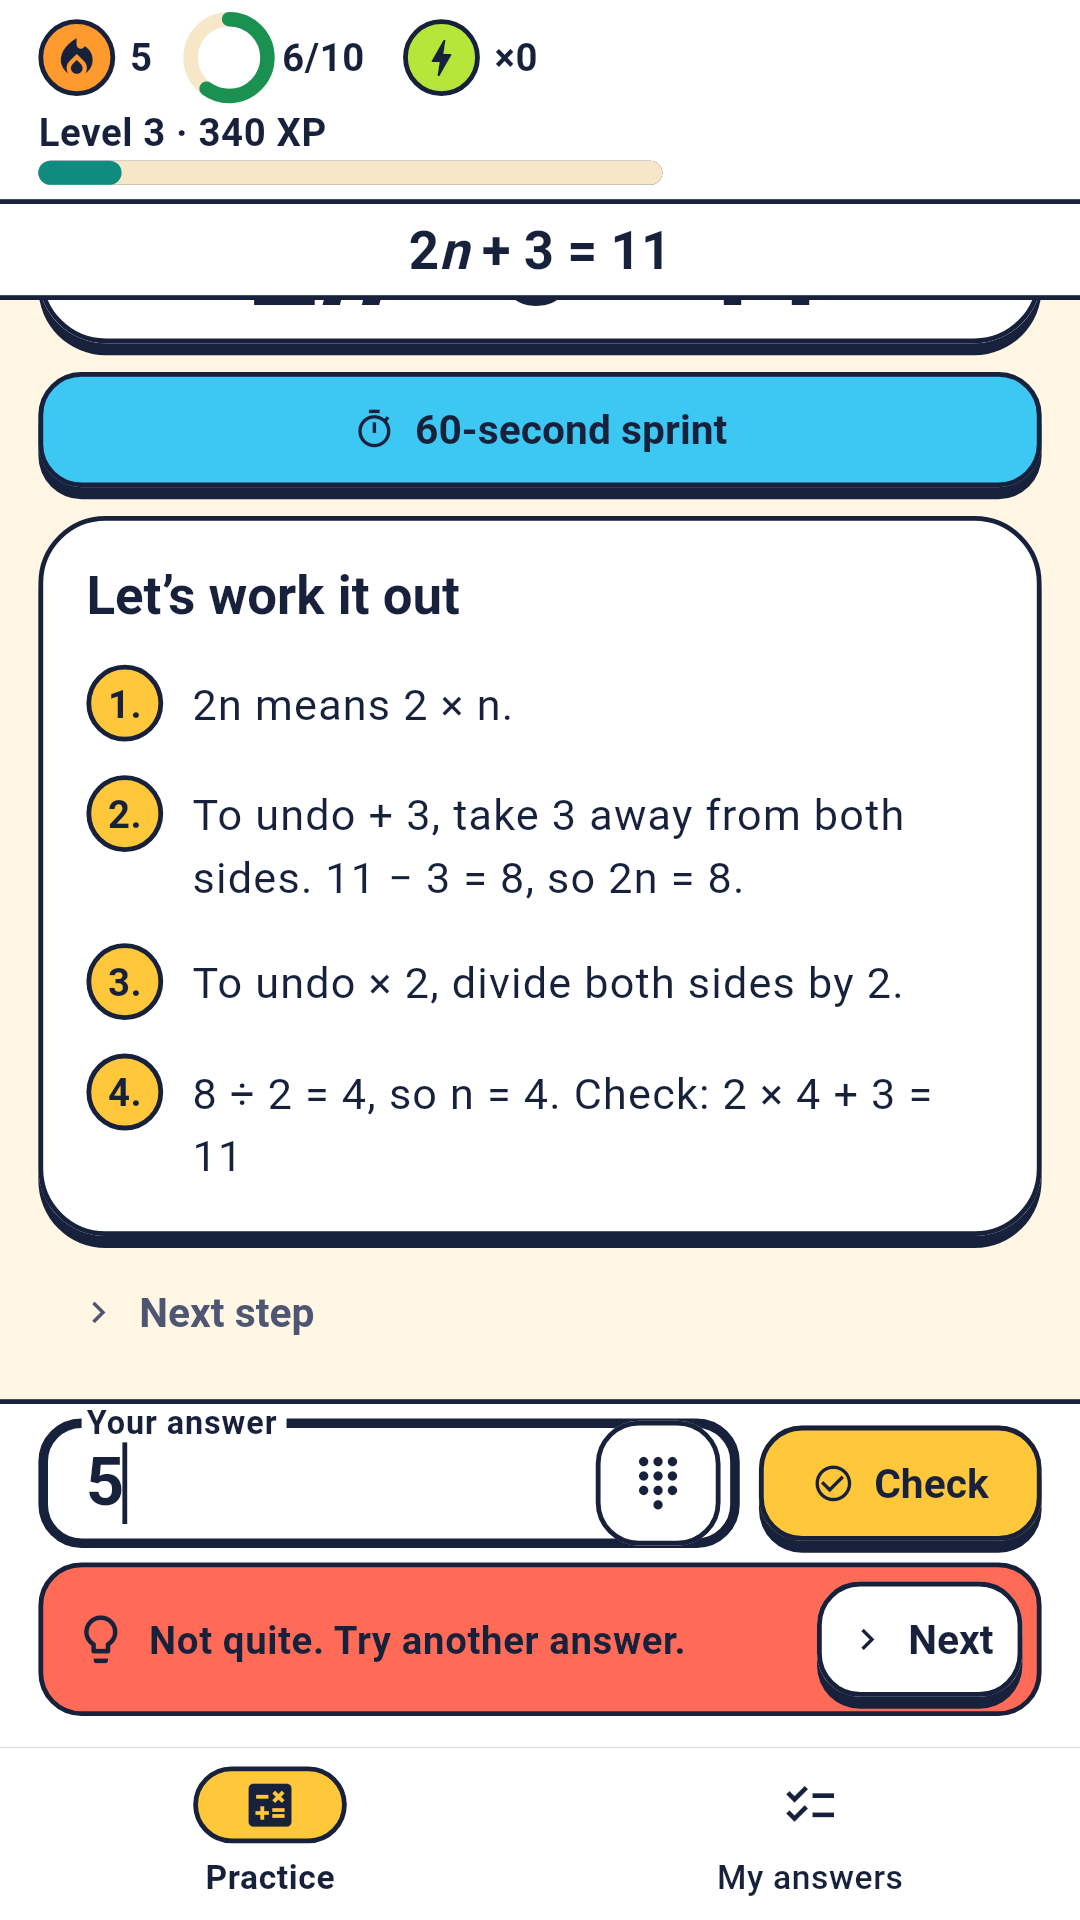
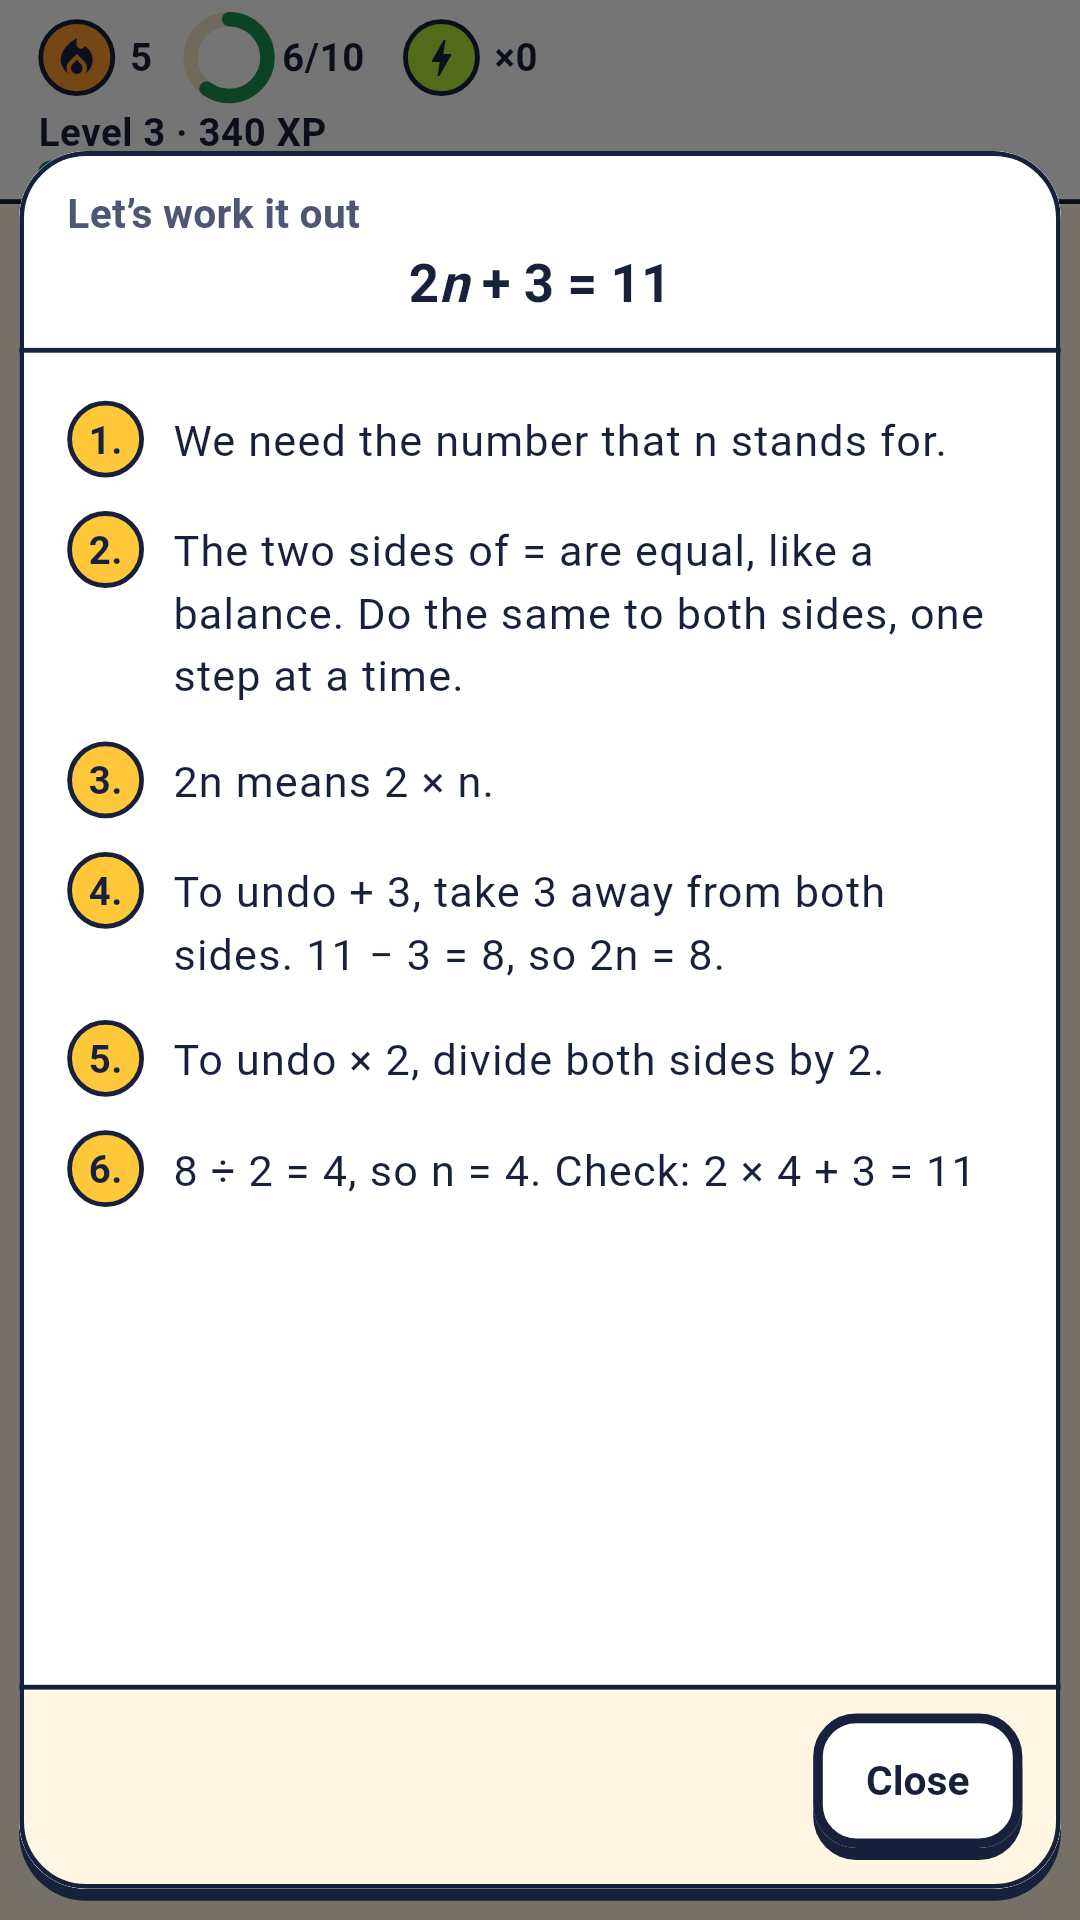
docs: regenerate the store screenshots for the new practice page
Play scenes show the start screen, the hint modal, My answers with the
Hints card, a theorem figure in dark theme and the summary at End.
phone-7-compact becomes phone-7-summary. Data safety answers as entered
by the owner; the menu button replaces the gear in the docs.

diff --git a/app/tool/screenshots_test.dart b/app/tool/screenshots_test.dart
@@ -39,6 +39,8 @@ void main() {
   String? language;
   final boundary = GlobalKey();
   final now = DateTime(2026, 11, 14, 9);
+  // Time played since the launch, read by the model's clock.
+  var played = Duration.zero;
   const game = GameState(
     xp: 340,
     combo: 4,
@@ -109,6 +111,7 @@ void main() {
     // Practice starts as after a tap on Start; false stays before it.
     bool start = true,
   }) async {
+    played = Duration.zero;
     tester.view.physicalSize = size;
     tester.view.devicePixelRatio = 1;
     tester.view.viewInsets = FakeViewPadding(bottom: keyboard);
@@ -131,7 +134,7 @@ void main() {
             for (final kind in OperationType.values) kind.name,
         ],
       ),
-      clock: () => now,
+      clock: () => now.add(played),
       ticker: ticks == null ? null : () => ticks.stream,
       // Nothing is sent from a screenshot.
       reportClient: _ShotReports(reportOutcome),
@@ -294,6 +297,20 @@ void main() {
           await tester.ensureVisible(find.byKey(endPracticeButtonKey));
           await tester.tap(find.byKey(endPracticeButtonKey));
           await shoot(tester, '$tag-2d-after-end-summary');
+
+          // A longer round at End: a hint, a skip and a wrong answer.
+          final round = await launch(tester, size, brightness);
+          round.openHint();
+          answer(round, more: 4);
+          played = const Duration(minutes: 4, seconds: 30);
+          round.endPractice();
+          await tester.pumpAndSettle();
+          // Scrolled so the whole card shows, its buttons at the bottom.
+          await Scrollable.ensureVisible(
+            tester.element(find.byKey(roundSummaryDoneKey)),
+            alignment: 1,
+          );
+          await shoot(tester, '$tag-2e-round-summary');
 
           await launch(tester, size, brightness);
           await check(tester, '65');
@@ -665,8 +682,13 @@ void main() {
             await shoot(tester, '$name-17a-hint-nudge');
             await tester.tap(find.byKey(hintNudgeTryKey));
             await tester.pumpAndSettle();
-            await tester.tap(find.byKey(myAnswersNavKey));
+            // My answers is in the navigation after End.
+            await tester.ensureVisible(find.byKey(endPracticeButtonKey));
             await tester.pumpAndSettle();
+            await tester.tap(find.byKey(endPracticeButtonKey));
+            await tester.pumpAndSettle();
+            await tester.tap(find.byKey(myAnswersNavKey));
+            await shoot(tester, '$name-17c-answers-top');
             await tester.ensureVisible(find.byKey(hintStatsKey));
             await shoot(tester, '$name-17b-hint-totals');
           }

diff --git a/docs/play-store.md b/docs/play-store.md
@@ -86,7 +86,7 @@ Stored in [`docs/play-store/`](play-store/) (see its README for how they are mad
 | App access | All functionality is available without special access (no login, no account). |
 | Content rating | See the questionnaire answers below. |
 | Target audience and content | Age groups 6 to 8 and 9 to 12. Includes children, so the Families Policy applies (answers below). |
-| Data safety | No user data collected or shared (answers below). |
+| Data safety | Optional report data collected, not shared (answers below). |
 | Advertising ID | No, the app does not use the advertising ID. |
 | Government apps | No, the app is not developed by or for a government. |
 | Financial features | None; the app provides no financial features. |
@@ -125,7 +125,7 @@ Stored in [`docs/play-store/`](play-store/) (see its README for how they are mad
   system browser. `http` sends only that report.
 - No accounts, no social features, no purchases.
 - Links out of the app: one, the "Impressum" entry in the settings sheet (behind
-  the gear icon, not on the practice screen). It opens the developer's
+  the menu button at the top of the practice page, not on the question itself). It opens the developer's
   provider identification on the app's own website in the system browser. That
   page loads Cloudflare Turnstile (a bot check that receives the visitor's IP
   address and browser signals); the privacy policy says so. The privacy policy
@@ -134,8 +134,8 @@ Stored in [`docs/play-store/`](play-store/) (see its README for how they are mad
 
 ### Data safety
 
-Since issue #150 the app can send a report, so the form changes. Proposed answers
-(the owner decides and enters them in Play Console):
+Since issue #150 the app can send a report, so the form changes. The owner entered
+these answers in Play Console:
 
 - Does the app collect or share any of the required user data types? Yes.
 - Collected types: "App info and performance: Other app performance data" (app
@@ -143,13 +143,14 @@ Since issue #150 the app can send a report, so the form changes. Proposed answer
   content" (the question code and the reason or category picked from a list).
   No personal info, no identifiers, no location, no device or other IDs.
 - Collection is optional: only a user-initiated report after the grown-up check.
-  Purpose: app functionality (fixing wrong questions and problems).
+  Purposes, for both data types: App functionality, Analytics.
 - Shared: No. Cloudflare (hosting) and GitHub (where the report becomes a public
   issue) process it for the developer; the report holds no personal data.
 - Processed ephemerally: No (it becomes a GitHub issue).
 - Encrypted in transit: Yes (HTTPS).
-- Deletion requests: a report holds nothing that links it to a person; the
-  developer can delete an issue on request.
+- Do you provide a way for users to request that their data is deleted? No. A
+  report holds nothing that links it to a person, so no one can ask for "their"
+  report.
 - The IP address reaches Cloudflare as for any web request; the function does not
   store or log it.
 - The Impressum link opens a web page in the browser; the app sends nothing
@@ -166,7 +167,7 @@ From plan section 4.6 (research, not legal advice):
   If not, or if Turnstile or the function is unavailable for long, the fallback is
   to return the text without the check (a one-line change in
   `functions/api/impressum.js`) or to publish the text as a static page.
-- Whether the one link out of the app (the Impressum, behind the settings gear)
+- Whether the one link out of the app (the Impressum, behind the settings menu button)
   needs a parental gate for the Families Policy.
 - Whether the report a grown-up sends (issue #150: question code or problem
   category, a reason from a list, app version, platform, app language, behind a

diff --git a/app/integration_test/README.md b/app/integration_test/README.md
@@ -125,7 +125,7 @@ Built from reading `lib/`. Each row needs at least one journey.
 | My answers page | `history_journeys.dart` | with no answers it shows the empty state and no stats; the empty state's Practice button returns to Start; the stats card shows saved totals once there are answers; the stats table shows each operation's accuracy and level; the stats card shows how often a hint was used, per kind; an incorrect row shows your answer and the expected one; a correct row shows your answer; a skipped row says no answer was entered; a long history loads more on scroll and keeps stats pinned (answers show newest first and load 20 at a time with a loading row, the oldest one is followed by the end marker, scrolled down the stats are a compact bar still on screen, back at the top the full card shows); End then My answers shows the round, and back on Practice Start shows a new question with the answer focused |
 | Game loop (header) | `game_loop_journeys.dart` | a correct first answer adds XP to the header; a correct answer after a hint earns half the XP; the combo grows with right answers and a wrong one ends it; reaching the next level plays the celebration; the tenth right answer of the day fills the goal and grows the streak; a new day empties the goal ring and a missed day ends the streak; a goal reached yesterday keeps the streak today; right answers raise the operation's level |
 | Sprint | `sprint_journeys.dart` | starting a sprint shows the countdown and hides practice extras; a sprint answer moves straight on and adds to the score; leaving for My answers ends the round, shows the result and saves the best; a lower score keeps the saved personal best; when the time runs out the round ends with its result, back before Start |
-| Settings sheet (gear) | `settings_journeys.dart` | the gear opens the settings sheet and a tap outside closes it (`closeSettings` taps the barrier above the sheet, or uses system back when the sheet fills the screen); the sheet lists Easy, Medium, Hard and Harder; choosing another tier resets levels and draws a new question; tapping the current tier only closes the sheet |
+| Settings sheet (menu button) | `settings_journeys.dart` | the menu button opens the settings sheet and a tap outside closes it (`closeSettings` taps the barrier above the sheet, or uses system back when the sheet fills the screen); the sheet lists Easy, Medium, Hard and Harder; choosing another tier resets levels and draws a new question; tapping the current tier only closes the sheet |
 | Privacy and Impressum (settings) | `settings_journeys.dart` | Privacy shows the privacy policy inside the app; Impressum asks the browser for the production Impressum (`startHarness(openLink:)` takes a recording opener, so no journey opens the real page) |
 | Vibration switch | `settings_journeys.dart` | the Vibration switch is saved; with Vibration off the pad keys stop buzzing |
 | Sound switch | `sound_journeys.dart` | the Sound switch shows in settings, on by default; turning Sound off is saved and survives a restart; with Sound off no sound plays; with it on, one per checked answer (`startHarness(sounds:)` takes a counting player; every other journey starts with `SilentSoundPlayer`) |

diff --git a/docs/play-store/README.md b/docs/play-store/README.md
@@ -24,16 +24,16 @@ The tool writes many shots; these eight are the Play ones (Play shows at most ei
 
 | Play file | Tool shot |
 | --- | --- |
-| `phone-1-practice.png` | `light-450x800-1b-switched.png` |
+| `phone-1-practice.png` | `light-450x800-0-before-start.png` (the start screen: kinds, Start, sprint) |
 | `phone-2-correct.png` | `light-450x800-2b-celebration.png` |
-| `phone-3-hints.png` | `light-450x800-3b-wrong-hints.png` |
+| `phone-3-hints.png` | `light-450x800-3b-wrong-hints.png` (the hint modal with its steps) |
 | `phone-4-sprint.png` | `light-450x800-5-sprint.png` |
-| `phone-5-my-answers.png` | `light-450x800-7-answers.png` |
-| `phone-6-dark.png` | `dark-450x800-14-geometry-rectangleArea-5x3-comfortable-x1.0.png` (geometry, dark theme) |
-| `phone-7-compact.png` | `light-450x800-11b-compact-answers.png` |
+| `phone-5-my-answers.png` | `light-450x800-17c-answers-top.png` (My answers with the Hints card) |
+| `phone-6-dark.png` | `dark-450x800-16-geometry-pythagorasHypotenuse-8x15-x1.0.png` (a theorem figure, dark theme) |
+| `phone-7-summary.png` | `light-450x800-2e-round-summary.png` (the summary at End) |
 | `phone-8-algebra.png` | `light-450x800-13g-algebra-level-4-hints.png` (algebra with its hint steps) |
 
-With `SCREENSHOT_LANGUAGES=de,hi` each name starts with the code, for example `de-light-450x800-1b-switched.png`.
+With `SCREENSHOT_LANGUAGES=de,hi` each name starts with the code, for example `de-light-450x800-0-before-start.png`.
 
 To add a language: add its code to `languages` in `tool/translate.mjs` and its Play code to `playCodes` in
 `tool/translate_listing.mjs` (and a Noto Sans font in `app/pubspec.yaml` if it uses a new script). Run **Translate new
